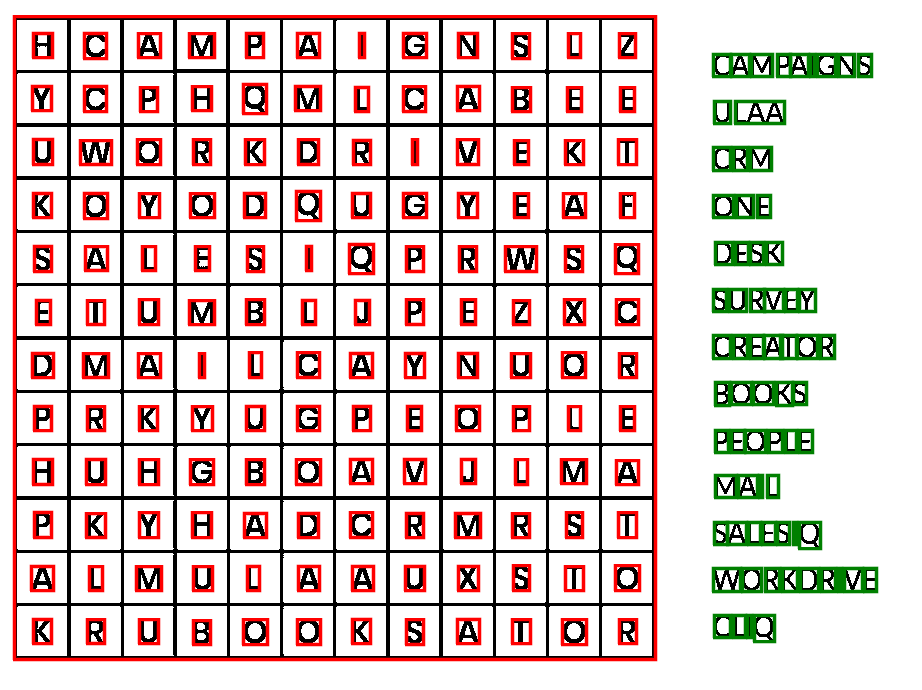
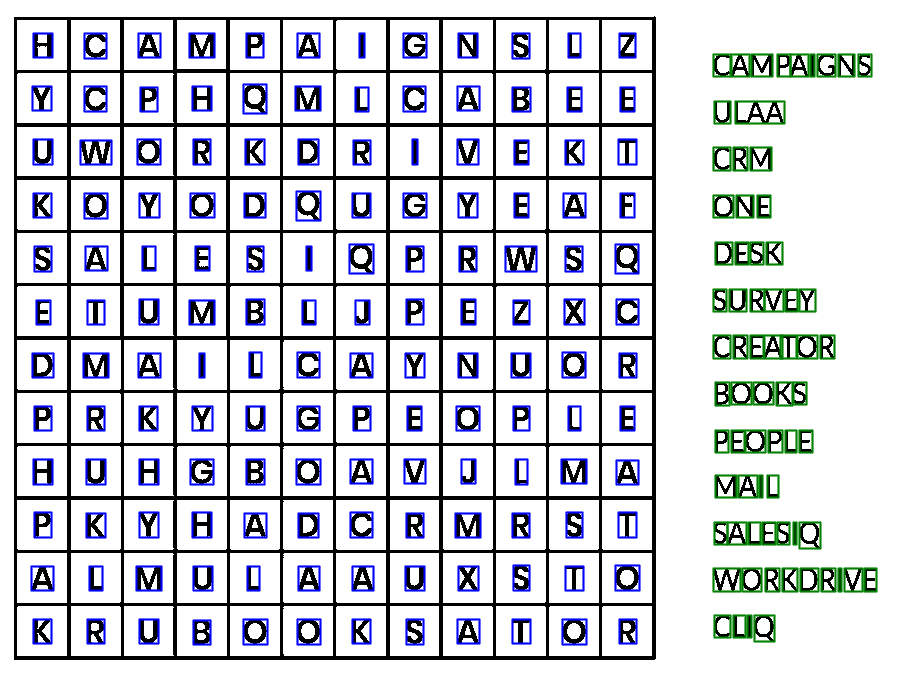
Ignored grid in character detection

diff --git a/KeltIA/demos/detect_char.c b/KeltIA/demos/detect_char.c
@@ -44,9 +44,9 @@ int main(int argc, char *argv[])
 
     PixelSetColor(fill_color, "none");
 
-    PixelSetColor(stroke_color, "red");
+    PixelSetColor(stroke_color, "blue");
     DrawSetStrokeColor(draw, stroke_color);
-    DrawSetStrokeWidth(draw, 3);
+    DrawSetStrokeWidth(draw, 2);
 
     PixelSetColor(fill_color, "none");
     DrawSetFillColor(draw, fill_color);

diff --git a/KeltIA/src/detect_zones/detect_char.c b/KeltIA/src/detect_zones/detect_char.c
@@ -134,6 +134,15 @@ CharBBox *detect_characters(
         }
     }
 
+    // Check if first item is grid
+    if (*char_count > 1 && characters[0].h > characters[1].h * 3)
+    {
+        memmove(
+            &characters[0], &characters[1],
+            ((--(*char_count)) * sizeof(CharBBox))
+        );
+    }
+
     free(visited);
     DestroyPixelWand(pixel_wand);
 
